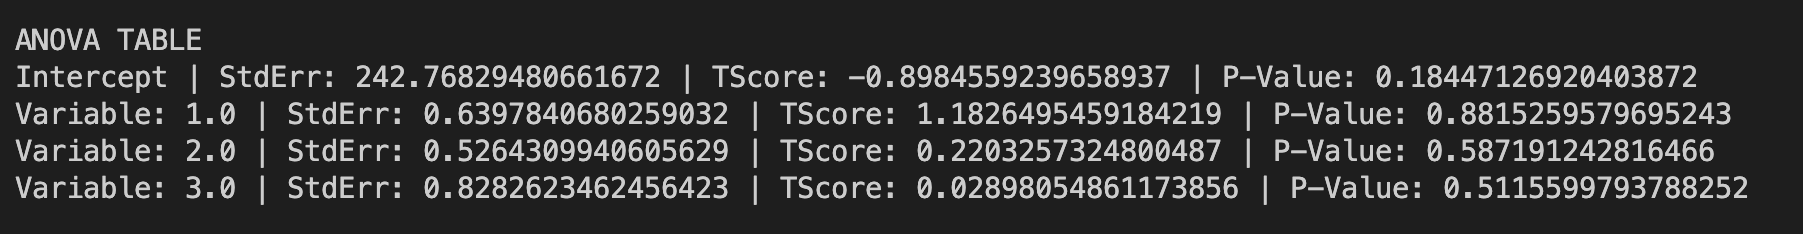
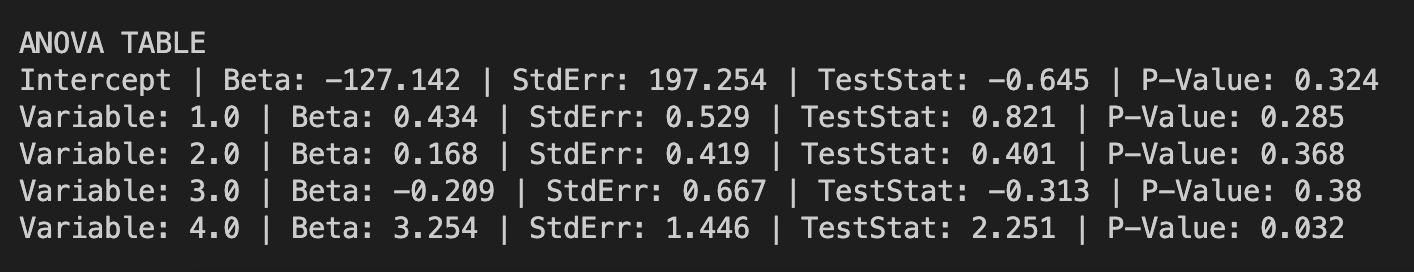
updated rounding and such

Changed region(s): [[0.0, 0.2393, 0.9958, 0.8974], [0.0, 0.0897, 0.1556, 0.2094]]

diff --git a/src/StatPack.java b/src/StatPack.java
@@ -8,29 +8,15 @@ public class StatPack {
 
     public static Matrix np = new Matrix();
 
-    // function to calculate the CDF of the standard normal distribution
-    public static double normCDF(double x) {
-        return 0.5 * (1 + erf(x / Math.sqrt(2)));
+    public static double rx(double x, int p){
+        return Math.round(x*Math.pow(10,p))/Math.pow(10,p);
     }
 
-    // function to calculate the error function
-    public static double erf(double x) {
-        double t = 1.0 / (1.0 + 0.5 * Math.abs(x));
-        double ans = 1 - t * Math.exp(-x*x - 1.26551223 +
-                                      t * (1.00002368 +
-                                      t * (0.37409196 +
-                                      t * (0.09678418 +
-                                      t * (-0.18628806 +
-                                      t * (0.27886807 +
-                                      t * (-1.13520398 +
-                                      t * (1.48851587 +
-                                      t * (-0.82215223 +
-                                      t * (0.17087277))))))))));
-        if (x >= 0) {
-            return ans;
-        } else {
-            return -ans;
-        }
+    // function to calculate the CDF of the t-distribution with df degrees of freedom and a given t-value
+    public static double cdf(double t) {
+        double factor = 1.0 / Math.sqrt(2.0*Math.PI);
+        double x = Math.pow(t, 2) / 2.0;
+        return factor*Math.exp(-x);
     }
 
     // Calculates your beta coefficents for a multi-variable regression
@@ -59,18 +45,17 @@ public class StatPack {
         double[] pvalue = new double[beta.length];
         for(int i = 0; i < beta.length; i++){
             tscore[i] = beta[i][0]/sd[i][0];
-            pvalue[i] = normCDF(tscore[i]);
+            pvalue[i] = cdf(tscore[i]);
         }
         System.out.println("ANOVA TABLE");
         String output;
         for(int i = 0; i < beta.length; i++){
             if(i == 0){
-               output = "Intercept | StdErr: " + np.NtoS(stderr[i]) + " | TScore: " + np.NtoS(tscore[i]) + " | P-Value: " + np.NtoS(pvalue[i]);
-               System.out.println(output); 
-            } else {
-                output = "Variable: " + np.NtoS(i) + " | StdErr: " + np.NtoS(stderr[i]) + " | TScore: " + np.NtoS(tscore[i]) + " | P-Value: " + np.NtoS(pvalue[i]);
+                output = "Intercept | Beta: " + np.NtoS(rx(beta[i][0], 3)) + " | StdErr: " + np.NtoS(rx(stderr[i],3)) + " | TestStat: " + np.NtoS(rx(tscore[i],3)) + " | P-Value: " + np.NtoS(rx(pvalue[i],3));
                 System.out.println(output); 
-              
+            } else {
+                output = "Variable: " + np.NtoS(i) + " | Beta: " + np.NtoS(rx(beta[i][0], 3)) + " | StdErr: " + np.NtoS(rx(stderr[i],3)) + " | TestStat: " + np.NtoS(rx(tscore[i],3)) + " | P-Value: " + np.NtoS(rx(pvalue[i],3));
+                System.out.println(output); 
             }
             
         }

diff --git a/src/main.java b/src/main.java
@@ -83,17 +83,17 @@ class main {
 
   // Multivariable Regression example demo
   public static void MultiVariableReg(){
-      double[][] X = {{1, 300, 298, 101},
-                      {1, 320, 245, 102},
-                      {1, 310, 233, 103},
-                      {1, 290, 252, 108},
-                      {1, 270, 253, 106},
-                      {1, 320, 257, 140},
-                      {1, 310, 254, 120},
-                      {1, 315, 280, 101},
-                      {1, 307, 260, 110},
-                      {1, 312, 259, 107},
-                      {1, 309, 251, 113}};
+      double[][] X = {{1, 300, 298, 101, 2},
+                      {1, 320, 245, 102, 3},
+                      {1, 310, 233, 103, 5},
+                      {1, 290, 252, 108, 1},
+                      {1, 270, 253, 106, 2},
+                      {1, 320, 257, 140, 4},
+                      {1, 310, 254, 120, 16},
+                      {1, 315, 280, 101, 9},
+                      {1, 307, 260, 110, 8},
+                      {1, 312, 259, 107, 2},
+                      {1, 309, 251, 113, 15}};
 
       double[] Yh = {20, 30, 50, 18, 23, 45, 66, 92, 84, 21, 55};
 
